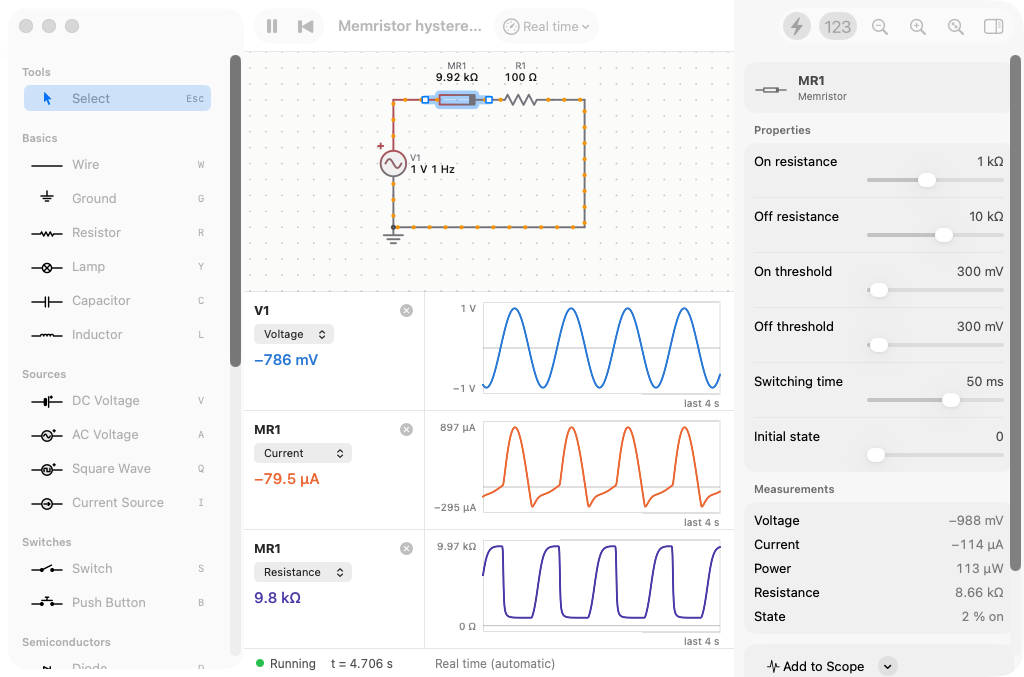
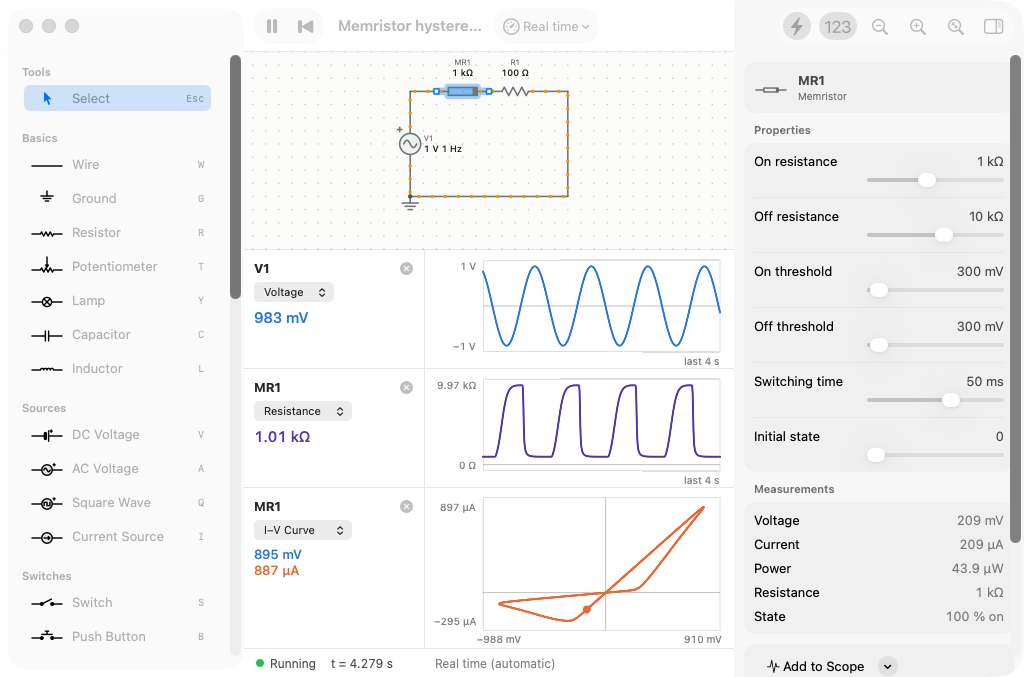
README screenshots: I–V scope, op-amp amplifier, dimmer
Claude-Session: https://claude.ai/code/session_018C6tnrA9sLqMuDntSMGGdQ

diff --git a/macos/README.md b/macos/README.md
@@ -17,7 +17,11 @@ A native macOS circuit simulator in the spirit of iCircuit and the Falstad apple
 
 ![CMOS inverter in dark mode](docs/cmos-dark.png)
 
-![Memristor hysteresis with scopes](docs/memristor.png)
+![Memristor hysteresis with an I–V curve scope](docs/memristor.png)
+
+![Op-amp amplifier](docs/opamp.png)
+
+![Light dimmer with a potentiometer and an NPN transistor](docs/dimmer.png)
 
 ## Install
 
